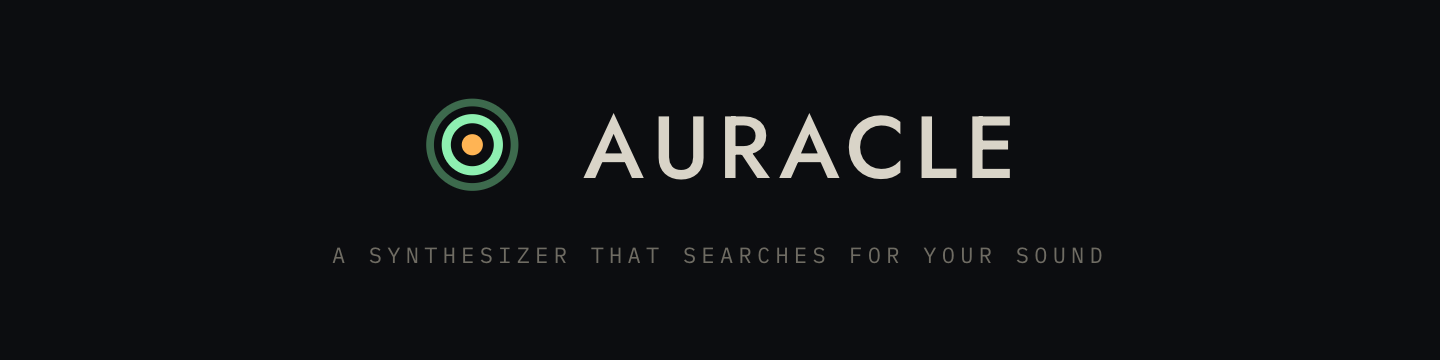
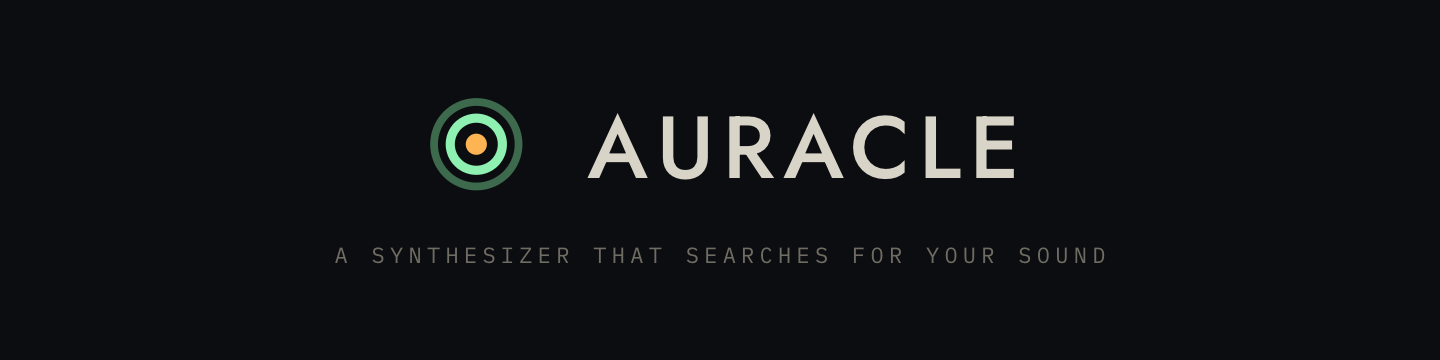
fix(brand): re-render lockup.png with the tracking compensation applied (#36)

Changed region(s): [[0.4062, 0.3056, 0.6875, 0.4889], [0.2188, 0.6722, 0.7812, 0.7333], [0.2812, 0.275, 0.375, 0.5194]]

diff --git a/www/brand/render.html b/www/brand/render.html
@@ -57,9 +57,15 @@ body { margin: 0; background: #333; font-family: var(--font-silk); -webkit-font-
   width: 1440px; height: 360px; background: var(--rack);
   display: flex; flex-direction: column; align-items: center; justify-content: center; gap: 36px;
 }
-#banner .lk { font-size: 88px; }
+/* Both lines carry a start margin of one letter-space. letter-spacing is
+   applied after the *final* letter too, so a centred line's ink sits half a
+   letter-space left of true centre; a start margin of one full space puts it
+   back. It goes on the lockup rather than on .wm, or it would open the
+   specified 0.62em gap between the mark and the word. */
+#banner .lk { font-size: 88px; margin-inline-start: .095em; }
 #banner .tag {
   font-family: var(--font-mono); font-size: 22px; letter-spacing: .24em;
+  margin-inline-start: .24em;
   text-transform: uppercase; color: var(--silk-mute);
 }
 

diff --git a/CHANGELOG.md b/CHANGELOG.md
@@ -27,6 +27,14 @@ one-letter-space start margin: `letter-spacing` applies after the final letter
 too, so tracked type centres half a letter-space to the left of true centre
 unless it is corrected.
 
+The same correction reaches the **README banner**, which is a raster and had the
+same lean baked into it: measured against the 720px axis of the 1440px artboard,
+the lockup's ink sat 2.5px left of centre and the tagline 3.5px left. It is
+re-rendered from `render.html` — the compensation goes on the lockup rather than
+on the wordmark, or it would open the specified 0.62em gap between the mark and
+the word. `og.png` is unchanged; its type is set flush left, where the trailing
+space costs nothing.
+
 ### Changed — "Make me one" builds something you can see
 
 The hero's payoff button played a patch and left the screen showing the two
